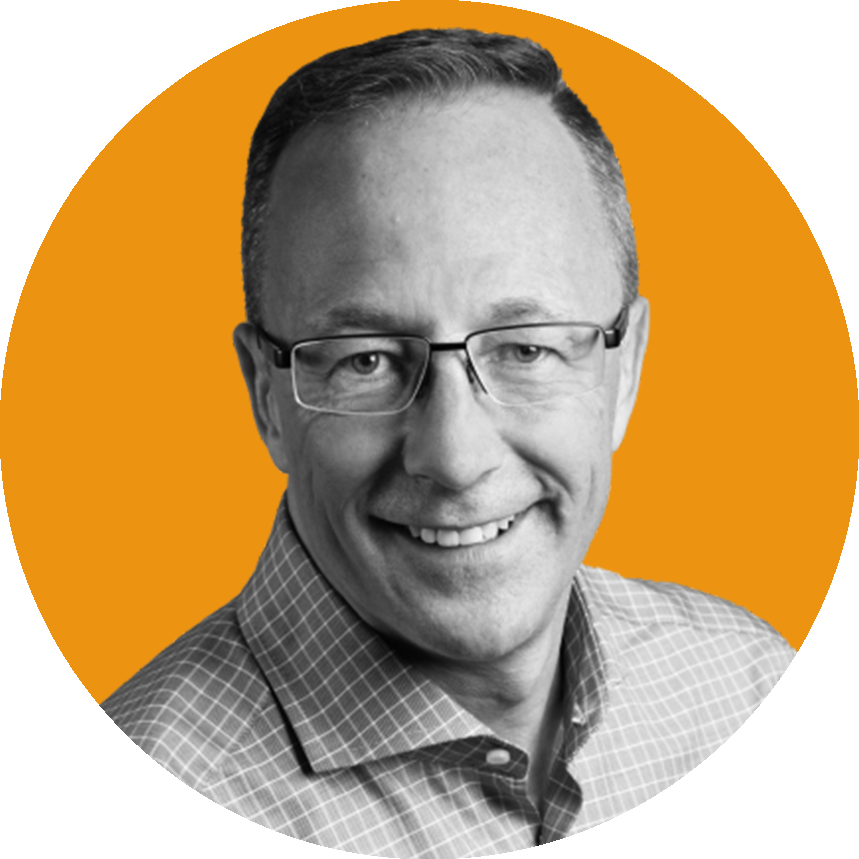
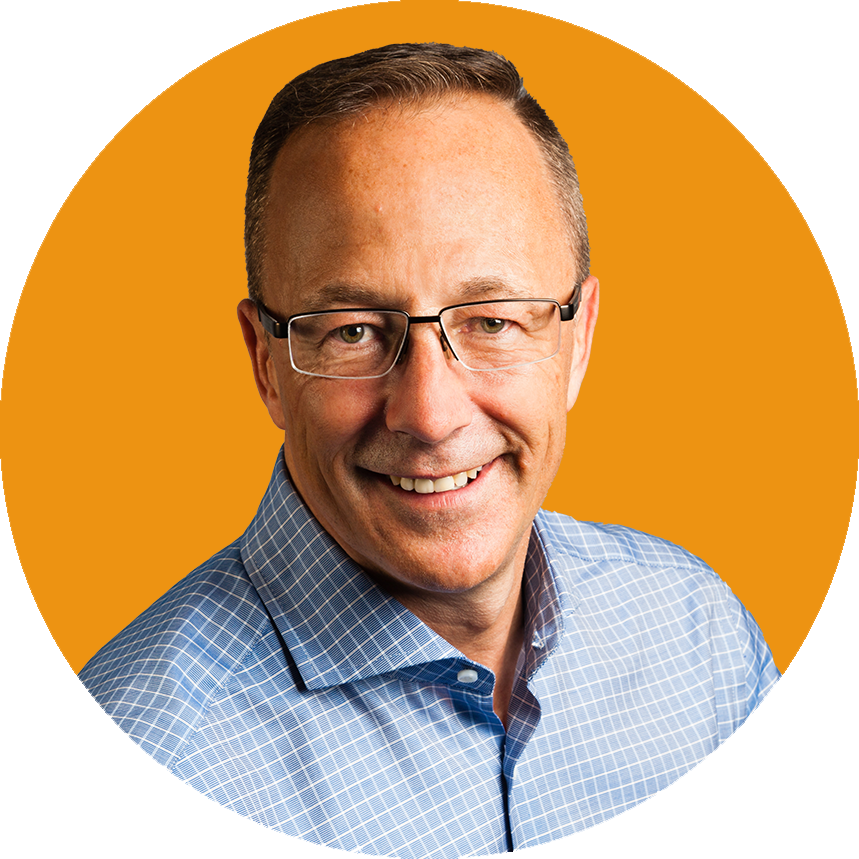
feat: validate content

diff --git a/solution.html b/solution.html
@@ -49,12 +49,12 @@
       <section id="solution-hero-banner">
         <div class="container">
           <div class="content">
-            <h2 class="section-title">Sweat Your Assets</h2>
+            <h2 class="section-title">An Endless Toolbox</h2>
             <p class="section-description">
-              Amplify your marketing strategy & increase ROI by adding a layer
-              of technology to what you already do
+              Connecting the physical and digital worlds to capture data, drive
+              engagement, and build long term relationships.
             </p>
-            <p><a href="#" class="cta-button">Learn more</a></p>
+            <p><a href="#" class="cta-button">See in Action</a></p>
           </div>
           <div class="illustrator">
             <img src="./assets/images/solution-devices.png" alt="" />
@@ -143,10 +143,10 @@
               </div>
               <div class="divider"><span>2</span></div>
               <div class="content">
-                <h3 class="title">Digital Experience Excellence</h3>
+                <h3 class="title">Tailored Offers</h3>
                 <p class="desc">
-                  Dynamic low friction experiences custom made to your brand and
-                  optimized to stand out from crowded markets
+                  We help you tailor offers and incentives to ensure hyperlocal
+                  relevance, increasing loyalty and repeat purchases
                 </p>
               </div>
             </div>
@@ -156,10 +156,10 @@
               </div>
               <div class="divider"><span>3</span></div>
               <div class="content">
-                <h3 class="title">Digital Experience Excellence</h3>
+                <h3 class="title">Data Intelligence & Profiling</h3>
                 <p class="desc">
-                  Dynamic low friction experiences custom made to your brand and
-                  optimized to stand out from crowded markets
+                  Our perceptive analytics provide real time insights into your
+                  audience for campaign decisions and personalization
                 </p>
               </div>
             </div>
@@ -169,10 +169,10 @@
               </div>
               <div class="divider"><span>4</span></div>
               <div class="content">
-                <h3 class="title">Digital Experience Excellence</h3>
+                <h3 class="title">Innovative Retargeting</h3>
                 <p class="desc">
-                  Dynamic low friction experiences custom made to your brand and
-                  optimized to stand out from crowded markets
+                  Our innovative retargeting uses insights to deliver the right
+                  message to the right person at the time
                 </p>
               </div>
             </div>
@@ -182,9 +182,9 @@
 
       <section id="solution-platforms-heading">
         <div class="container">
-          <h2>
-            Multiple Solutions. <br />
-            Connected Platform.
+          <h2 class="section-title text-primary">
+            Infinite Solutions.<br />
+            ONE Platform.
           </h2>
         </div>
       </section>
@@ -292,9 +292,9 @@
                   alt=""
                   class="icon"
                 />
-                <h3 class="title text-primary">Descriptive Analytics</h3>
+                <h3 class="title text-primary">Zero-Party Data</h3>
                 <p>
-                  Collect robust data to track consumer behaviour and unique
+                  Collect robust data to track consumer behavior and unique
                   triggers
                 </p>
               </li>
@@ -304,10 +304,10 @@
                   alt=""
                   class="icon"
                 />
-                <h3 class="title text-primary">Predictive Analytics</h3>
+                <h3 class="title text-primary">Descriptive Analytics</h3>
                 <p>
-                  Predict consumer behaviour with tailored offerings to grow
-                  your audience with look-alike traits
+                  Anticipate consumer responses to improve engagement and
+                  retention
                 </p>
               </li>
               <li>
@@ -318,8 +318,8 @@
                 />
                 <h3 class="title text-primary">Prescriptive Analytics</h3>
                 <p>
-                  Plan your next steps with AI and ML to help you to get desired
-                  outcome.
+                  Using Artificial Intelligence to predict desired outcomes and
+                  personalize campaigns
                 </p>
               </li>
               <li>
@@ -328,10 +328,10 @@
                   alt=""
                   class="icon"
                 />
-                <h3 class="title text-primary">Zero-Party Data</h3>
+                <h3 class="title text-primary">Predictive Analytics</h3>
                 <p>
-                  Understand & anticipate consumer response to tailor offerings
-                  for improved engagement and retention
+                  Predict consumer behavior with tailored audience look-like
+                  traits
                 </p>
               </li>
             </ul>

diff --git a/css/index.css b/css/index.css
@@ -201,8 +201,7 @@
 
 /* Key benefits section */
 #key-benefits {
-  /* TODO: Update background image */
-  background-image: url('../assets/images/about-hero-bg.jpg');
+  background-image: url('../assets/images/BG-Dude.png');
   background-size: cover;
   min-height: 800px;
   padding: 16rem 0;
@@ -612,16 +611,14 @@
 }
 
 #capture-zero-party-list {
-  /* TODO: Update background image */
-  background-image: url('../assets/images/about-hero-bg.jpg');
+  background-image: url('../assets/images/BG-Fans.jpg');
   background-size: cover;
   height: 56.267vw;
   min-height: 800px;
 }
 
 #solution-hero-banner {
-  /* TODO: Update background image */
-  background-image: url('../assets/images/about-hero-bg.jpg');
+  background-image: url('../assets/images/BG-Dudette.png');
   background-size: cover;
   height: 56.267vw;
   min-height: 800px;
@@ -684,8 +681,9 @@
 
 #capture-zero-party-list .content {
   width: 60%;
-  max-width: 745px;
+  max-width: 840px;
   flex-shrink: 0;
+  font-size: 2rem;
 }
 
 #capture-zero-party-list .illustrator {
@@ -694,7 +692,26 @@
 
 #capture-zero-party-list .illustrator img {
   width: 100%;
-  max-width: 600px;
+}
+
+#capture-zero-party-list .content .list {
+  display: flex;
+  flex-wrap: wrap;
+  row-gap: 6rem;
+}
+
+#capture-zero-party-list .content .list li {
+  width: 50%;
+  padding-right: 4rem;
+}
+
+#capture-zero-party-list .content .icon {
+  width: 60px;
+}
+
+#capture-zero-party-list .content .title {
+  font-size: 3rem;
+  margin: 1rem 0 3rem;
 }
 
 #capture-heart-mind-wallet .content {
@@ -795,26 +812,6 @@
 #iot-solution .feature-item .content .desc {
   margin-bottom: 2rem;
   max-width: 400px;
-}
-
-#capture-zero-party-list .content .list {
-  display: flex;
-  flex-wrap: wrap;
-  row-gap: 6rem;
-}
-
-#capture-zero-party-list .content .list li {
-  width: 50%;
-  padding-right: 4rem;
-}
-
-#capture-zero-party-list .content .icon {
-  width: 60px;
-}
-
-#capture-zero-party-list .content .title {
-  font-size: 1.8rem;
-  margin: 1rem 0;
 }
 
 #solution-analyst {
@@ -1220,8 +1217,8 @@
 }
 #about-intro .description {
   font-size: 2.5rem;
-  max-width: 600px;
-  margin: 3rem 0;
+  max-width: 900px;
+  margin: 3rem 0 8rem;
 }
 
 /* Global expertise section */

diff --git a/about.html b/about.html
@@ -52,8 +52,7 @@
             </h1>
             <p class="description">
               GoCXM is transforming the way brands engage and communicate with
-              consumers, enabling them to tailor promotions and optimize how
-              they spend their money.
+              consumers, by offering dynamic campaigns & infinite customization
             </p>
             <p><a href="#" class="cta-button">Learn More</a></p>
           </div>

diff --git a/index.html b/index.html
@@ -57,7 +57,7 @@
             <p class="section-description">
               We're here to deepen the 2-way relationship between brands &
               consumers. Increase relevance, personalize rewards and allow for
-              verstility
+              verstility.
             </p>
             <p><a href="#" class="cta-button">Book A Demo</a></p>
           </div>
